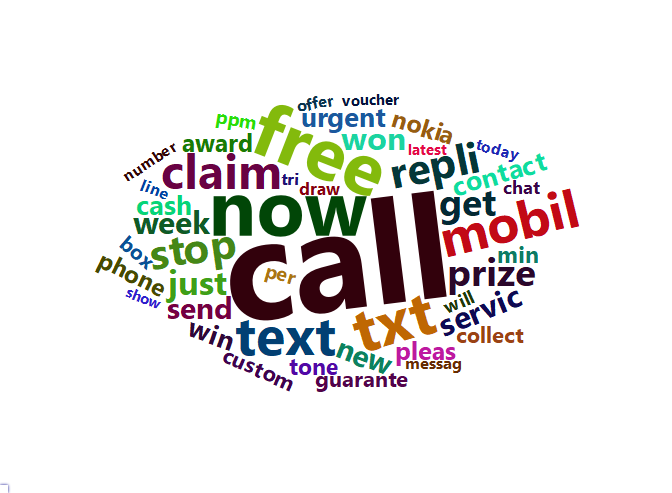
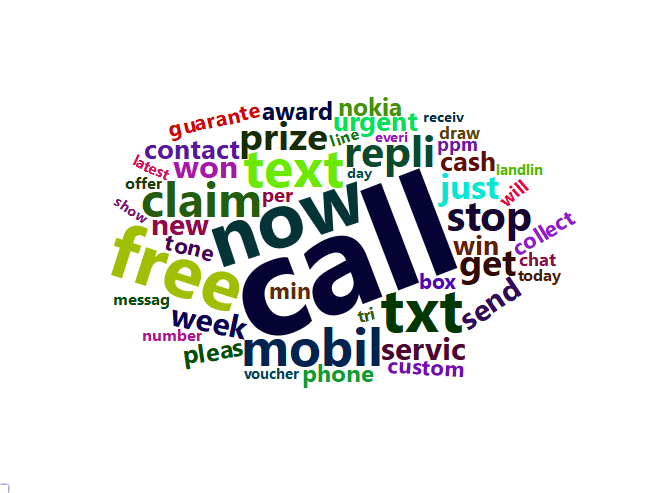
nlp spam example

Changed region(s): [[0.125, 0.1826, 0.875, 0.7911]]

diff --git a/NLP_spam.md b/NLP_spam.md
@@ -146,7 +146,7 @@ dtm
     ## Maximal term length: 40
     ## Weighting          : term frequency (tf)
 
-語音庫(corpus)中共有 5574 個簡訊 (document,row)，總共有 11577 個單詞
+語音庫(corpus)中共有 5574 個簡訊 (document,row)，總共有 8305 個單詞
 (term, column)。
 
 接下來去掉出現頻率低的單詞:
